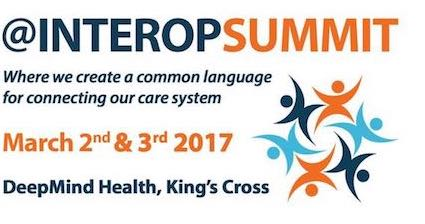
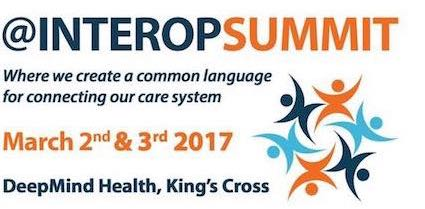
Add InteropSummit event

diff --git a/events.php b/events.php
@@ -10,9 +10,10 @@
         <td><span class="event-date">2-3 Mar</span></td>
         <td id="interopsummit">
           <p class="event-title">Interop Summit 2017 - an educational summit where we learn a common language for interoperability, to connect our care system</p>
-          <p><img src="images/interop_summit_small.jpeg"/></p>
           <div class="event-location"><img src="images/world.png" alt="location"/><a href="https://www.google.co.uk/maps/place/Google+UK/@51.5332266,-0.1283026,17z/data=!4m13!1m7!3m6!1s0x48761b3c547b4e55:0x51aabf4a0a9a8e79!2s6+Pancras+Square,+6+King's+Blvd,+Kings+Cross,+London+N1C+4AG!3b1!8m2!3d51.5332266!4d-0.1261086!3m4!1s0x48761b3c54efa6e1:0xc7053ab04745950d!8m2!3d51.5332408!4d-0.1260016">DeepMind Health, London</a></div>
-          <p><a href="https://t.co/U6ir7ZRfg1">For more information and to book your place click here</a>.</p>
+          <p><img src="images/interop_summit_small.jpeg" style="padding-left: 10px;"/></p>
+          <p><img src="images/bullet_go.png"/><a href="interop-summit.php">More information</a></p>
+          <p><img src="images/bullet_go.png"/><a href="http://bit.ly/interop2017">Register your interest</a></p>
         </td>
       </tr>
       <tr>

diff --git a/includes/header.php b/includes/header.php
@@ -11,7 +11,8 @@
                                                     "connectathon.php" => array("NAME" => "Connectathon", "LINK" => "connectathon"))),
             "events.php" => array("NAME" => "Meetings &amp; events", "LINK" => "events"),
             "news.php" => array("NAME" => "News &amp; media", "LINK" => "news"),
-            "discuss.php" => array("NAME" => "Discuss", "LINK" => "discuss"));
+            "discuss.php" => array("NAME" => "Discuss", "LINK" => "discuss"),
+            "interopsummit.php" => array("NAME" => "<b><span style='color: #1b5a7d'>@INTEROP</span><span style='color: #F16D3B'>SUMMIT</span></b>", "LINK" => "interop-summit"));
 
   function writeNavbarItem($page_filename, $page_name, $page_link, $current_filename)
   {

diff --git a/interop-summit.php b/interop-summit.php
@@ -1,7 +1,7 @@
 <?php include('includes/header.php') ?>
 
-  <div style="text-align: center; width: 100%; padding: 40px;">
-    <img style="width: 800px;" src="images/InteropSummit2017.png"/>
+  <div style="text-align: center; width: 100%; padding: 20px;">
+    <a href="http://bit.ly/interop2017"><img style="width: 800px;" src="images/InteropSummit2017.png"/></a>
   </div>
 
 <?php include('includes/footer.php') ?>
